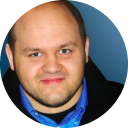
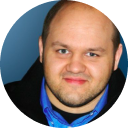
temp

diff --git a/components/Pages/Home/Reviews.js b/components/Pages/Home/Reviews.js
@@ -127,7 +127,7 @@ const reviews = [
     link: '#',
   },
   {
-    avatar: '/reviews/r_2.png',
+    avatar: '/reviews/r_2.png?v=1',
     companyAvatar: '/reviews/rc_2.svg',
     name: 'Vitaly Babiy',
     company: 'Founder, FleetChaser',
